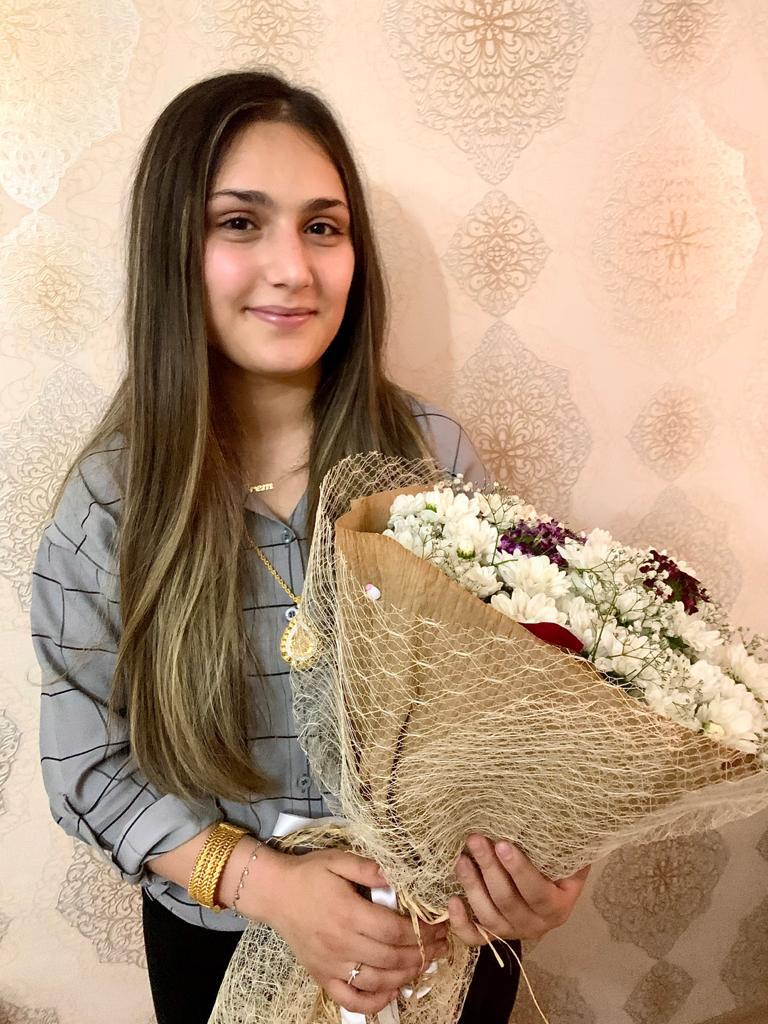
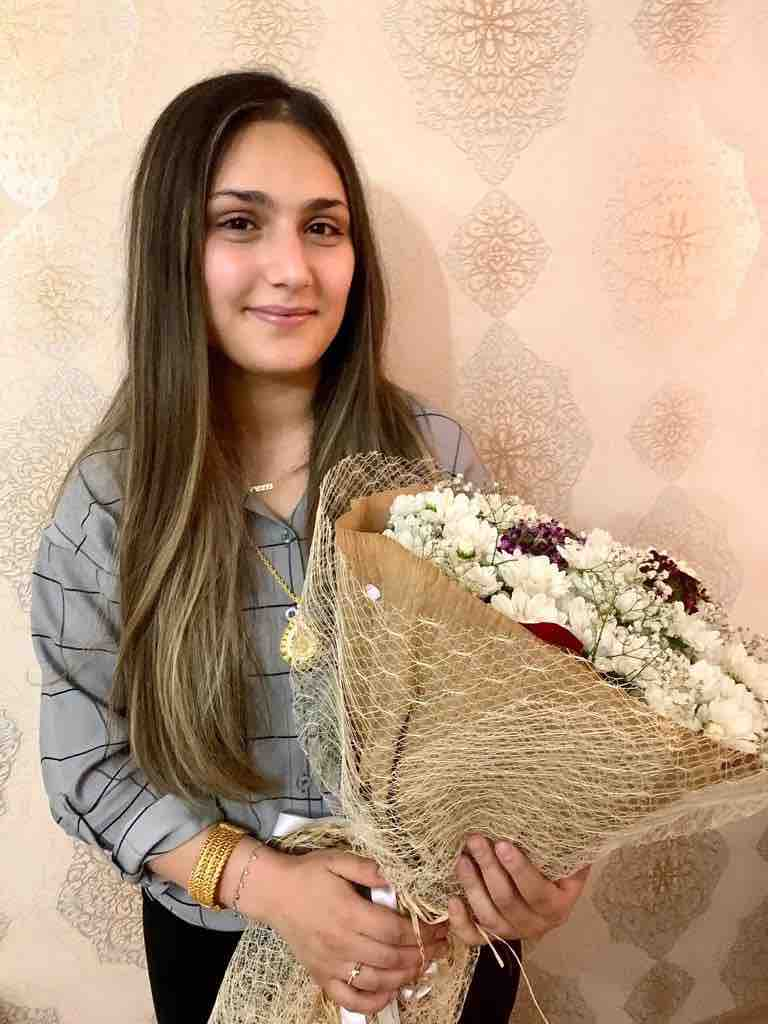
asd

diff --git a/scripts/questions.js b/scripts/questions.js
@@ -46,7 +46,7 @@ const quests = [
     {
         id:5,
         question: "Burda evet dendi okey, tamam ama tekrar sorsalar cevabin ne olurdu?",
-        img:"qPics/sizcecevapne.png",
+        img:"qPics/sizcecevapne.jpg",
         answers: [
             {value: 7, option: "Evet!"},
             {value: 3, option: "Yok almayim!"},
